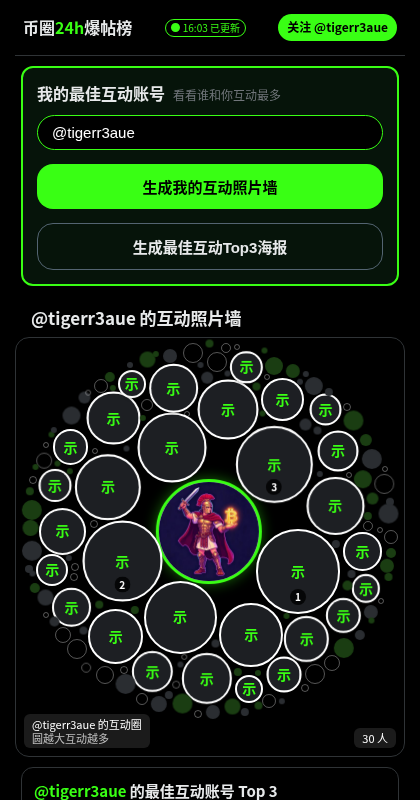
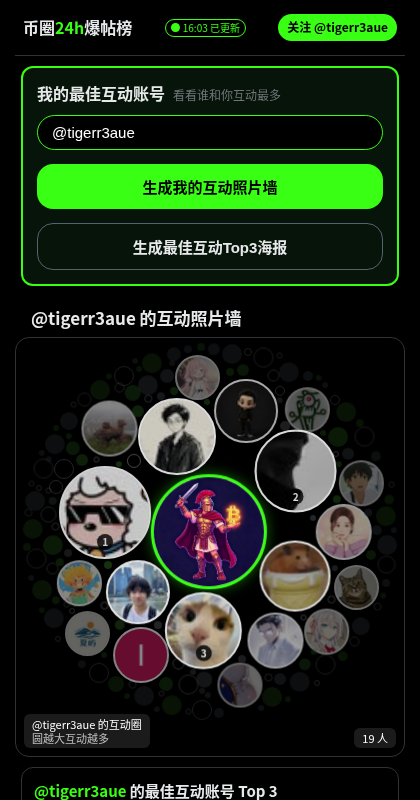
data: 2026-10-15 16:07 CST

Changed region(s): [[0.031, 0.4062, 0.9595, 0.9062], [0.8667, 0.9062, 0.8976, 0.9375]]

diff --git a/app.js b/app.js
@@ -73,10 +73,11 @@ function packCircles(n, W, rad = i => 64 / Math.pow(i + 1, 0.42) + 9) {   // 默
       }
     }
   }
-  const H = Math.ceil(2 * R * k + 44), map = p => ({ x: W / 2 + p.x * k, y: (H - 36) / 2 + p.y * k, r: p.r * k, f: p.f });
+  const H = Math.ceil(2 * R * k + 44), map = p => { const u = Math.min(1, Math.max(0, (Math.hypot(p.x, p.y) / R - 0.35) / 0.65)), sm = u * u * (3 - 2 * u);
+    return { x: W / 2 + p.x * k, y: (H - 36) / 2 + p.y * k, r: p.r * k, f: p.f, o: +(1 - 0.7 * sm).toFixed(3) }; };   // 透明度按离中心距离平滑过渡：35% 半径内不透明，边缘降到 0.3
   return { H, items: placed.map(map), fillers: fills.map(map) };
 }
-const fillHtml = fs => fs.map((c, i) => `<span class="bub fill${i % 3 ? "" : " o"}" style="left:${(c.x - c.r).toFixed(1)}px;top:${(c.y - c.r).toFixed(1)}px;width:${(2 * c.r).toFixed(1)}px;height:${(2 * c.r).toFixed(1)}px"></span>`).join("");
+const fillHtml = fs => fs.map((c, i) => `<span class="bub fill${i % 3 ? "" : " o"}" style="left:${(c.x - c.r).toFixed(1)}px;top:${(c.y - c.r).toFixed(1)}px;width:${(2 * c.r).toFixed(1)}px;height:${(2 * c.r).toFixed(1)}px;opacity:${c.o}"></span>`).join("");
 const selfAvatar = h => `https://unavatar.io/x/${encodeURIComponent(h)}`;
 const partnerRad = (list) => { const mx = Math.max(1, ...list.map(u => u.count || 0)); return i => i === 0 ? 70 : 12 + 44 * Math.sqrt((list[i - 1].count || 0) / mx); };
 const ini = u => [...(u.name || u.handle || "?")][0].toUpperCase();
@@ -86,7 +87,7 @@ function renderPersonalWall() {
   el.style.height = H + "px";
   el.innerHTML = items.map((c, i) => { const u = i ? arr[i - 1] : { handle: h, name: h, avatar: selfAvatar(h) };
     return `<a class="bub${i ? "" : " self"}" href="${outUrl(profile(u.handle), i ? "partner_wall" : "self_wall")}" target="_blank" rel="noopener" title="@${esc(u.handle)}${i ? " · " + u.count + " 次互动" : ""}"
-      style="left:${(c.x - c.r).toFixed(1)}px;top:${(c.y - c.r).toFixed(1)}px;width:${(2 * c.r).toFixed(1)}px;height:${(2 * c.r).toFixed(1)}px">
+      style="left:${(c.x - c.r).toFixed(1)}px;top:${(c.y - c.r).toFixed(1)}px;width:${(2 * c.r).toFixed(1)}px;height:${(2 * c.r).toFixed(1)}px;opacity:${c.o}">
       ${u.avatar ? `<img loading="lazy" decoding="async" src="${esc(u.avatar)}" alt="" onerror="this.outerHTML='<b class=ini>${esc(ini(u))}</b>'">` : `<b class="ini">${esc(ini(u))}</b>`}${i && i <= 3 ? `<i>${i}</i>` : ""}</a>`; }).join("") + fillHtml(fillers)
     + `<span class="wtag l">@${esc(h)} 的互动圈<br><span style="opacity:.7">圆越大互动越多</span></span><span class="wtag r">${arr.length} 人</span>`;
 }
@@ -101,7 +102,7 @@ function renderWall() {
   el.style.height = H + "px";
   el.innerHTML = items.map((c, i) => { const p = arr[i], img = p.image?.url || p.author.avatar || AV;
     return `<a class="bub" href="${esc(p.url)}" target="_blank" rel="noopener" title="@${esc(p.author.username)} · ${wallSort === "views" ? "👁 " + num(p.metrics.views) : "💬 " + num(p.metrics.replies)}"
-      style="left:${(c.x - c.r).toFixed(1)}px;top:${(c.y - c.r).toFixed(1)}px;width:${(2 * c.r).toFixed(1)}px;height:${(2 * c.r).toFixed(1)}px">
+      style="left:${(c.x - c.r).toFixed(1)}px;top:${(c.y - c.r).toFixed(1)}px;width:${(2 * c.r).toFixed(1)}px;height:${(2 * c.r).toFixed(1)}px;opacity:${c.o}">
       <img loading="lazy" decoding="async" src="${esc(img)}" alt="">${i < 3 ? `<i>${i + 1}</i>` : ""}</a>`; }).join("") + fillHtml(fillers)
     + `<span class="wtag l">24h 照片墙<br><span style="opacity:.7">按${wallSort === "views" ? "曝光" : "评论"} · 中心=第1</span></span><span class="wtag r">${arr.length} 帖</span>`;
 }
@@ -191,28 +192,16 @@ async function openPoster(h, list, url) {
   try {
     posterLib ||= Promise.all([loadJS("vendor/qrcode.js"), loadJS("poster.js")]);
     await posterLib;
-    const cv = await window.makePoster({ handle: h, list, url, self: selfAvatar(h), pack: (n, W, rad) => packCircles(n, W, rad), rad: partnerRad });
+    const cv = await window.makePoster({ handle: h, list, url, self: selfAvatar(h) });
     const blob = await new Promise(r => cv.toBlob(r, "image/png")), file = new File([blob], `best-partners-${h}.png`, { type: "image/png" });
     const purl = URL.createObjectURL(blob);
     const xText = "我的 X 最佳互动账号 Top 3 出炉了，测测你的 👉 " + url;
     m.querySelector(".pmb").innerHTML = `<img src="${purl}" alt="海报"><div class="pmh">先保存海报，发帖时把图片加上</div>
-      <div class="pmr"><button class="btn" id="pmSave">保存图片</button><button class="btn ghost" id="pmGif">保存动图</button><a class="btn ghost" id="pmX" target="_blank" rel="noopener" href="https://x.com/intent/post?text=${encodeURIComponent(xText)}">发到 X</a><button class="btn ghost" id="pmClose">关闭</button></div>`;
+      <div class="pmr"><button class="btn" id="pmSave">保存图片</button><a class="btn ghost" id="pmX" target="_blank" rel="noopener" href="https://x.com/intent/post?text=${encodeURIComponent(xText)}">发到 X</a><button class="btn ghost" id="pmClose">关闭</button></div>`;
     m.querySelector("#pmClose").onclick = () => m.remove();
     m.querySelector("#pmSave").onclick = async () => {
       if (navigator.canShare?.({ files: [file] }) && /Mobi|Android|iPhone/i.test(navigator.userAgent)) { try { await navigator.share({ files: [file], text: xText }); return; } catch (e) { if (e.name === "AbortError") return; } }
       const a = document.createElement("a"); a.href = purl; a.download = file.name; a.click(); toast("已保存");
-    };
-    let gifBusy = false;
-    m.querySelector("#pmGif").onclick = async e => {
-      const b = e.currentTarget; if (gifBusy) return; gifBusy = true; const t0 = b.textContent;
-      try {
-        b.textContent = "动图生成中…";
-        const gb = await window.makePosterGif({ handle: h, list, url, self: selfAvatar(h), pack: (n, W, rad) => packCircles(n, W, rad), rad: partnerRad }, p => b.textContent = `动图生成中… ${Math.round(p * 100)}%`);
-        const gf = new File([gb], `best-partners-${h}.gif`, { type: "image/gif" });
-        b.textContent = t0;
-        if (navigator.canShare?.({ files: [gf] }) && /Mobi|Android|iPhone/i.test(navigator.userAgent)) { try { await navigator.share({ files: [gf], text: xText }); return; } catch (e) { if (e.name === "AbortError") return; } }
-        const a = document.createElement("a"); a.href = URL.createObjectURL(gb); a.download = gf.name; a.click(); toast("动图已保存");
-      } catch (err) { b.textContent = t0; toast("动图生成失败"); } finally { gifBusy = false; }
     };
   } catch (e) { m.querySelector(".pmb").innerHTML = `<div class="m" style="padding:30px;text-align:center">海报生成失败</div>`; }
 }

diff --git a/poster.js b/poster.js
@@ -30,13 +30,13 @@ function qr(c, text, x, y, size) {
 }
 async function loadAll(o) {
   const arr = o.list.slice(0, 30);
-  const [wall, top] = await Promise.all([Promise.all([o.self, ...arr.map(u => u.avatar)].map(loadImg)), Promise.all(o.list.slice(0, 3).map(u => loadImg(u.avatar)))]);
+  const [wall, top] = await Promise.all([Promise.resolve([]), Promise.all(o.list.slice(0, 3).map(u => loadImg(u.avatar)))]);
   return { wall, top };
 }
 // t: 0..1 动画相位（null=静态）；每个气泡相位不同，首尾无缝循环
 function off(i, t, A) { if (t == null) return [0, 0]; const p = i * 2.399, a = 2 * Math.PI * t; return [A * Math.sin(a + p), A * Math.cos(a + p * 1.7)]; }
 function draw(o, IM, t = null) {
-  const dy = o.pack ? CIRCLE_H : 0; H = 1350 + dy;
+  const dy = 0; H = 1400;
   const cv = document.createElement("canvas"); cv.width = W; cv.height = H; const c = cv.getContext("2d");
   c.fillStyle = "#000"; c.fillRect(0, 0, W, H);
   const gr = c.createRadialGradient(W / 2, 0, 50, W / 2, 0, 900); gr.addColorStop(0, "#0d3a06"); gr.addColorStop(1, "#000"); c.fillStyle = gr; c.fillRect(0, 0, W, 700);
@@ -45,22 +45,6 @@ function draw(o, IM, t = null) {
   c.textAlign = "left"; c.textBaseline = "alphabetic";
   c.font = `800 44px ${FONT}`; c.fillStyle = "#fff"; c.fillText("币圈", 80, 120); let w = c.measureText("币圈").width;
   c.fillStyle = G; c.fillText("24h", 80 + w, 120); w += c.measureText("24h").width; c.fillStyle = "#fff"; c.fillText("爆帖榜", 80 + w, 120);
-  // 个人互动圈（顶部）
-  if (o.pack) {
-    const arr = o.list.slice(0, 30), { H: ph, items, fillers = [] } = o.pack(arr.length + 1, W - 160, o.rad(arr));
-    const k = Math.min(1, (CIRCLE_H - 20) / (ph - 44)), cx = W / 2, cy = 150 + CIRCLE_H / 2;
-    const mid = (ph - 36) / 2, ims = IM ? IM.wall : [];
-    items.forEach((c, i) => {
-      const [ox, oy] = off(i, t, 3), x = cx + (c.x - (W - 160) / 2) * k + ox, y = cy + (c.y - mid) * k + oy, r = c.r * k;
-      const u = i ? arr[i - 1] : { handle: o.handle };
-      c2(cv, ims[i], u.name || u.handle, x, y, r, i === 0);
-    });
-    fillers.forEach((f, j) => {
-      const [ox, oy] = off(j + 7, t, 2), x = cx + (f.x - (W - 160) / 2) * k + ox, y = cy + (f.y - mid) * k + oy;
-      c.beginPath(); c.arc(x, y, f.r * k, 0, 2 * Math.PI);
-      if (j % 3) { c.fillStyle = j % 2 ? "#123d0c" : "#2a2d31"; c.fill(); } else { c.strokeStyle = "#ffffff55"; c.lineWidth = 2; c.stroke(); }
-    });
-  }
   c.save(); c.translate(0, dy);
   // 标题
   c.textAlign = "center"; c.fillStyle = G; c.font = `800 64px ${FONT}`; c.fillText(fit(c, "@" + o.handle, W - 160), W / 2, 240);
@@ -68,18 +52,18 @@ function draw(o, IM, t = null) {
   // 三个账号
   const imgs = IM ? IM.top : [];
   o.list.slice(0, 3).forEach((u, i) => {
-    const y = 400 + i * 170;
+    const y = 400 + i * 190;
     c.fillStyle = i === 0 ? "#0d2a07" : "#0b0b0b"; c.strokeStyle = i === 0 ? G : "#2f3336"; c.lineWidth = 3;
-    c.beginPath(); c.roundRect(80, y, W - 160, 140, 28); c.fill(); c.stroke();
-    c.textAlign = "left"; c.fillStyle = G; c.font = `900 60px ${FONT}`; c.fillText(String(i + 1), 120, y + 92);
-    circleImg(c, imgs[i], u.name || u.handle, 255, y + 70, 50);
-    c.fillStyle = "#fff"; c.font = `700 44px ${FONT}`; c.fillText(fit(c, u.name || u.handle, 470), 330, y + 64);
-    c.fillStyle = "#8b9095"; c.font = `400 32px ${FONT}`; c.fillText(fit(c, "@" + u.handle, 470), 330, y + 110);
-    c.textAlign = "right"; c.fillStyle = G; c.font = `900 60px ${FONT}`; c.fillText(String(u.count), W - 120, y + 80);
-    c.fillStyle = "#8b9095"; c.font = `400 26px ${FONT}`; c.fillText("次互动", W - 120, y + 116);
+    c.beginPath(); c.roundRect(80, y, W - 160, 160, 30); c.fill(); c.stroke();
+    c.textAlign = "left"; c.fillStyle = G; c.font = `900 60px ${FONT}`; c.fillText(String(i + 1), 120, y + 102);
+    circleImg(c, imgs[i], u.name || u.handle, 262, y + 80, 58);
+    c.fillStyle = "#fff"; c.font = `700 44px ${FONT}`; c.fillText(fit(c, u.name || u.handle, 450), 345, y + 72);
+    c.fillStyle = "#8b9095"; c.font = `400 32px ${FONT}`; c.fillText(fit(c, "@" + u.handle, 450), 345, y + 120);
+    c.textAlign = "right"; c.fillStyle = G; c.font = `900 60px ${FONT}`; c.fillText(String(u.count), W - 120, y + 90);
+    c.fillStyle = "#8b9095"; c.font = `400 26px ${FONT}`; c.fillText("次互动", W - 120, y + 128);
   });
   // 二维码 + 链接
-  const qy = 935; qr(c, o.url, 80, qy, 260);
+  const qy = 1000; qr(c, o.url, 80, qy, 260);
   c.textAlign = "left"; c.fillStyle = "#fff"; c.font = `700 40px ${FONT}`; c.fillText("扫码测测你的 Top 3", 380, qy + 70);
   c.fillStyle = "#8b9095"; c.font = `400 26px ${FONT}`; c.fillText("只统计最近的回复和 @，不含点赞", 380, qy + 120);
   c.fillStyle = G; c.font = `400 26px ${FONT}`;
@@ -98,20 +82,4 @@ async function safeImgs(o) {
   return IM;
 }
 window.makePoster = async o => draw(o, await safeImgs(o));
-// 动图：气泡轻微浮动，24 帧 × 100ms 无缝循环，缩到 600 宽；头像只加载一次
-window.makePosterGif = async (o, prog) => {
-  const { GIFEncoder, quantize, applyPalette } = await import("./vendor/gifenc.esm.js");
-  const IM = await safeImgs(o), N = 24, OW = 600;
-  const enc = GIFEncoder(); let pal, oc, octx;
-  for (let f = 0; f < N; f++) {
-    const cv = draw(o, IM, f / N);
-    if (!oc) { oc = document.createElement("canvas"); oc.width = OW; oc.height = Math.round(cv.height * OW / cv.width); octx = oc.getContext("2d", { willReadFrequently: true }); }
-    octx.drawImage(cv, 0, 0, oc.width, oc.height);
-    const px = octx.getImageData(0, 0, oc.width, oc.height).data;
-    if (!pal) pal = quantize(px, 256);
-    enc.writeFrame(applyPalette(px, pal), oc.width, oc.height, { palette: f ? undefined : pal, delay: 100, repeat: 0 });
-    prog?.((f + 1) / N); await new Promise(r => setTimeout(r));
-  }
-  enc.finish(); return new Blob([enc.bytes()], { type: "image/gif" });
-};
 })();
